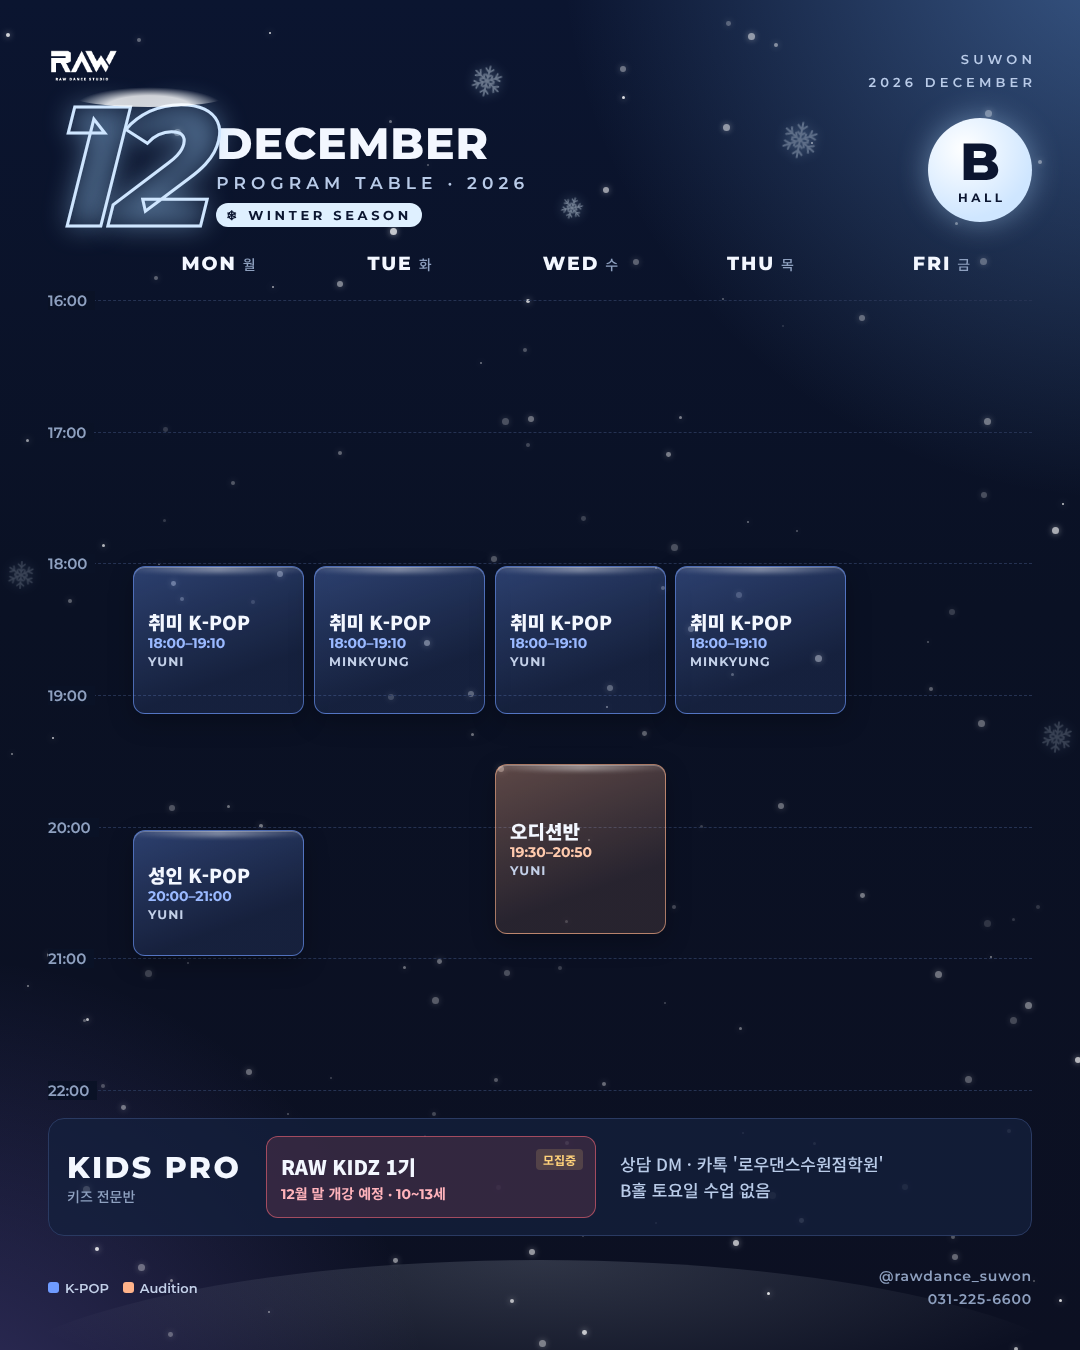
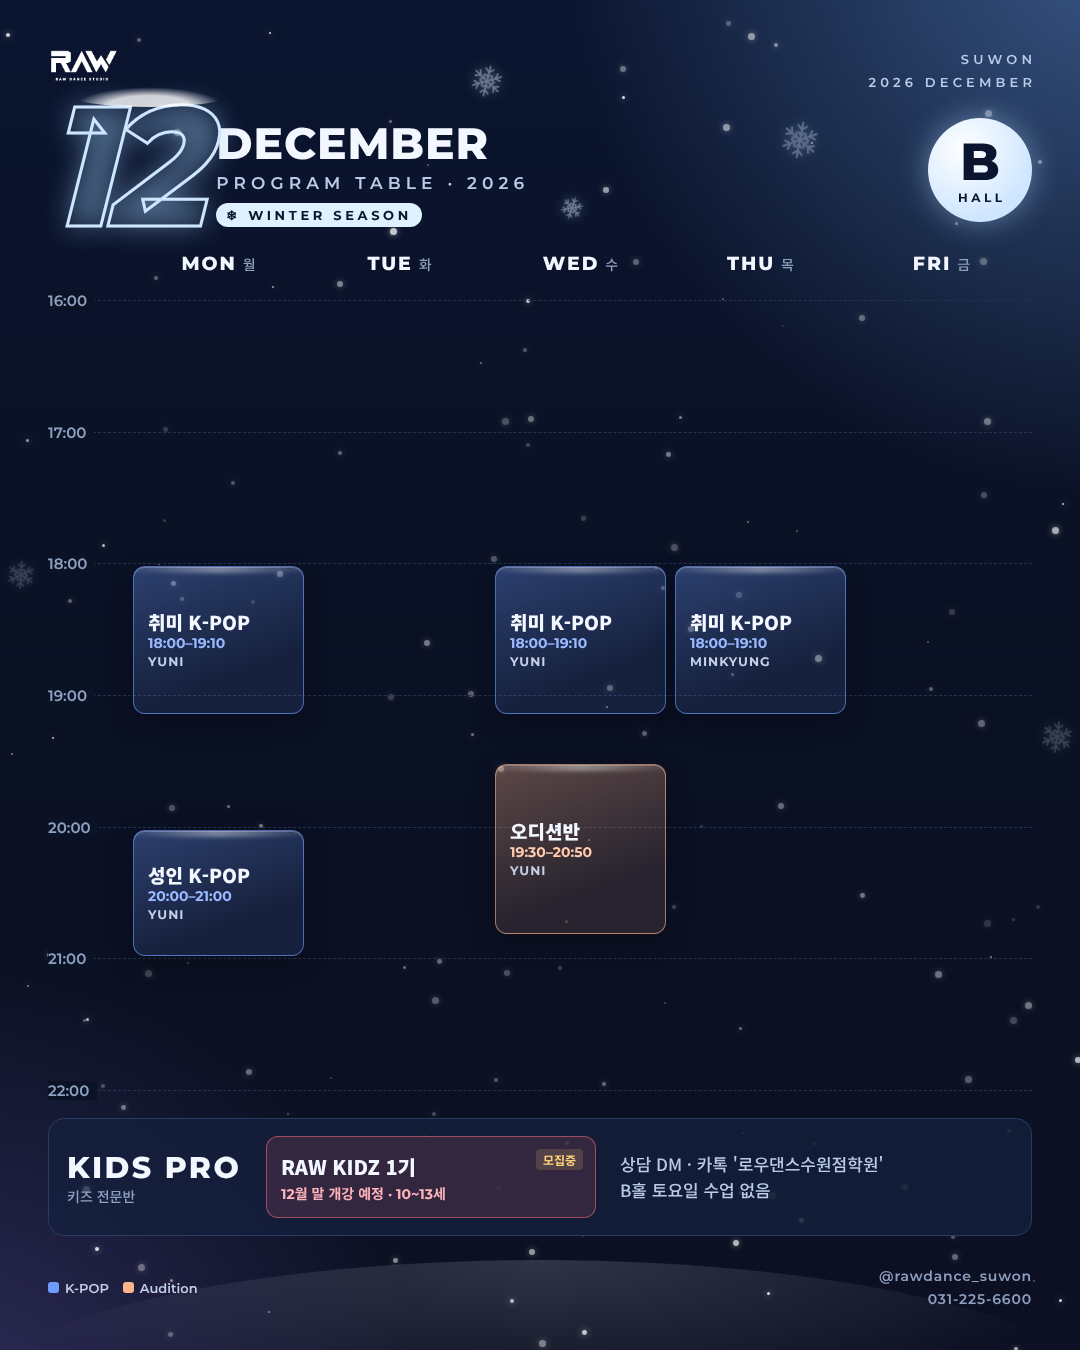
12월 취미 K-POP 월·수/목만 (화 없음)
Claude-Session: https://claude.ai/code/session_01CMPXWNa21Fqq6srPZpa27D

Changed region(s): [[0.275, 0.4044, 0.4583, 0.5289]]

diff --git a/content/2026-12-01_timetable-december/hall-b-2026-12-reels.html b/content/2026-12-01_timetable-december/hall-b-2026-12-reels.html
@@ -49,6 +49,6 @@ body{background:linear-gradient(180deg,#0b1530 0%,#0a1124 45%,#0c1022 100%);colo
 <div class="top"><img src="raw-logo.png"><div class="r">SUWON<br>2026 DECEMBER</div></div>
 <div class="hero"><div class="n"><div class="cap"></div>12</div><div class="t"><b>DECEMBER</b><span>PROGRAM TABLE · 2026</span><em>❄ WINTER SEASON</em></div></div>
 <div class="hall"><b>B</b><span>HALL</span></div>
-<div class="dh" style="left:128px;width:181px">MON<small>월</small></div><div class="dh" style="left:309px;width:181px">TUE<small>화</small></div><div class="dh" style="left:490px;width:181px">WED<small>수</small></div><div class="dh" style="left:670px;width:181px">THU<small>목</small></div><div class="dh" style="left:851px;width:181px">FRI<small>금</small></div><div class="rl" style="top:540px"><span>16:00</span></div><div class="rl" style="top:690px"><span>17:00</span></div><div class="rl" style="top:840px"><span>18:00</span></div><div class="rl" style="top:990px"><span>19:00</span></div><div class="rl" style="top:1140px"><span>20:00</span></div><div class="rl" style="top:1290px"><span>21:00</span></div><div class="rl" style="top:1440px"><span>22:00</span></div><div class="b" style="left:133px;top:843px;width:171px;height:169px;--c:#6f9bff"><b>취미 K-POP</b><span>18:00–19:10</span><small>YUNI</small></div><div class="b" style="left:314px;top:843px;width:171px;height:169px;--c:#6f9bff"><b>취미 K-POP</b><span>18:00–19:10</span><small>MINKYUNG</small></div><div class="b" style="left:495px;top:843px;width:171px;height:169px;--c:#6f9bff"><b>취미 K-POP</b><span>18:00–19:10</span><small>YUNI</small></div><div class="b" style="left:675px;top:843px;width:171px;height:169px;--c:#6f9bff"><b>취미 K-POP</b><span>18:00–19:10</span><small>MINKYUNG</small></div><div class="b" style="left:495px;top:1068px;width:171px;height:194px;--c:#ffb38a"><b>오디션반</b><span>19:30–20:50</span><small>YUNI</small></div><div class="b" style="left:133px;top:1143px;width:171px;height:144px;--c:#6f9bff"><b>성인 K-POP</b><span>20:00–21:00</span><small>YUNI</small></div><div class="sat"><div class="sl" style="width:185px;white-space:nowrap">KIDS PRO<small>키즈 전문반</small></div><div class="sc kp"><b>RAW KIDZ 1기</b><span>12월 말 개강 예정 · 10~13세</span><em>모집중</em></div><p class="cn">상담 DM · 카톡 '로우댄스수원점학원'<br>B홀 토요일 수업 없음</p></div>
+<div class="dh" style="left:128px;width:181px">MON<small>월</small></div><div class="dh" style="left:309px;width:181px">TUE<small>화</small></div><div class="dh" style="left:490px;width:181px">WED<small>수</small></div><div class="dh" style="left:670px;width:181px">THU<small>목</small></div><div class="dh" style="left:851px;width:181px">FRI<small>금</small></div><div class="rl" style="top:540px"><span>16:00</span></div><div class="rl" style="top:690px"><span>17:00</span></div><div class="rl" style="top:840px"><span>18:00</span></div><div class="rl" style="top:990px"><span>19:00</span></div><div class="rl" style="top:1140px"><span>20:00</span></div><div class="rl" style="top:1290px"><span>21:00</span></div><div class="rl" style="top:1440px"><span>22:00</span></div><div class="b" style="left:133px;top:843px;width:171px;height:169px;--c:#6f9bff"><b>취미 K-POP</b><span>18:00–19:10</span><small>YUNI</small></div><div class="b" style="left:495px;top:843px;width:171px;height:169px;--c:#6f9bff"><b>취미 K-POP</b><span>18:00–19:10</span><small>YUNI</small></div><div class="b" style="left:675px;top:843px;width:171px;height:169px;--c:#6f9bff"><b>취미 K-POP</b><span>18:00–19:10</span><small>MINKYUNG</small></div><div class="b" style="left:495px;top:1068px;width:171px;height:194px;--c:#ffb38a"><b>오디션반</b><span>19:30–20:50</span><small>YUNI</small></div><div class="b" style="left:133px;top:1143px;width:171px;height:144px;--c:#6f9bff"><b>성인 K-POP</b><span>20:00–21:00</span><small>YUNI</small></div><div class="sat"><div class="sl" style="width:185px;white-space:nowrap">KIDS PRO<small>키즈 전문반</small></div><div class="sc kp"><b>RAW KIDZ 1기</b><span>12월 말 개강 예정 · 10~13세</span><em>모집중</em></div><p class="cn">상담 DM · 카톡 '로우댄스수원점학원'<br>B홀 토요일 수업 없음</p></div>
 <div class="ft"><div class="lg"><span><i style="background:#6f9bff"></i>K-POP</span><span><i style="background:#ffb38a"></i>Audition</span></div><div class="ct">@rawdance_suwon<br>031-225-6600</div></div>
 </body></html>

diff --git a/content/2026-12-01_timetable-december/hall-b-2026-12.html b/content/2026-12-01_timetable-december/hall-b-2026-12.html
@@ -49,6 +49,6 @@ body{background:linear-gradient(180deg,#0b1530 0%,#0a1124 45%,#0c1022 100%);colo
 <div class="top"><img src="raw-logo.png"><div class="r">SUWON<br>2026 DECEMBER</div></div>
 <div class="hero"><div class="n"><div class="cap"></div>12</div><div class="t"><b>DECEMBER</b><span>PROGRAM TABLE · 2026</span><em>❄ WINTER SEASON</em></div></div>
 <div class="hall"><b>B</b><span>HALL</span></div>
-<div class="dh" style="left:128px;width:181px">MON<small>월</small></div><div class="dh" style="left:309px;width:181px">TUE<small>화</small></div><div class="dh" style="left:490px;width:181px">WED<small>수</small></div><div class="dh" style="left:670px;width:181px">THU<small>목</small></div><div class="dh" style="left:851px;width:181px">FRI<small>금</small></div><div class="rl" style="top:300px"><span>16:00</span></div><div class="rl" style="top:432px"><span>17:00</span></div><div class="rl" style="top:563px"><span>18:00</span></div><div class="rl" style="top:695px"><span>19:00</span></div><div class="rl" style="top:827px"><span>20:00</span></div><div class="rl" style="top:958px"><span>21:00</span></div><div class="rl" style="top:1090px"><span>22:00</span></div><div class="b" style="left:133px;top:566px;width:171px;height:148px;--c:#6f9bff"><b>취미 K-POP</b><span>18:00–19:10</span><small>YUNI</small></div><div class="b" style="left:314px;top:566px;width:171px;height:148px;--c:#6f9bff"><b>취미 K-POP</b><span>18:00–19:10</span><small>MINKYUNG</small></div><div class="b" style="left:495px;top:566px;width:171px;height:148px;--c:#6f9bff"><b>취미 K-POP</b><span>18:00–19:10</span><small>YUNI</small></div><div class="b" style="left:675px;top:566px;width:171px;height:148px;--c:#6f9bff"><b>취미 K-POP</b><span>18:00–19:10</span><small>MINKYUNG</small></div><div class="b" style="left:495px;top:764px;width:171px;height:170px;--c:#ffb38a"><b>오디션반</b><span>19:30–20:50</span><small>YUNI</small></div><div class="b" style="left:133px;top:830px;width:171px;height:126px;--c:#6f9bff"><b>성인 K-POP</b><span>20:00–21:00</span><small>YUNI</small></div><div class="sat"><div class="sl" style="width:185px;white-space:nowrap">KIDS PRO<small>키즈 전문반</small></div><div class="sc kp"><b>RAW KIDZ 1기</b><span>12월 말 개강 예정 · 10~13세</span><em>모집중</em></div><p class="cn">상담 DM · 카톡 '로우댄스수원점학원'<br>B홀 토요일 수업 없음</p></div>
+<div class="dh" style="left:128px;width:181px">MON<small>월</small></div><div class="dh" style="left:309px;width:181px">TUE<small>화</small></div><div class="dh" style="left:490px;width:181px">WED<small>수</small></div><div class="dh" style="left:670px;width:181px">THU<small>목</small></div><div class="dh" style="left:851px;width:181px">FRI<small>금</small></div><div class="rl" style="top:300px"><span>16:00</span></div><div class="rl" style="top:432px"><span>17:00</span></div><div class="rl" style="top:563px"><span>18:00</span></div><div class="rl" style="top:695px"><span>19:00</span></div><div class="rl" style="top:827px"><span>20:00</span></div><div class="rl" style="top:958px"><span>21:00</span></div><div class="rl" style="top:1090px"><span>22:00</span></div><div class="b" style="left:133px;top:566px;width:171px;height:148px;--c:#6f9bff"><b>취미 K-POP</b><span>18:00–19:10</span><small>YUNI</small></div><div class="b" style="left:495px;top:566px;width:171px;height:148px;--c:#6f9bff"><b>취미 K-POP</b><span>18:00–19:10</span><small>YUNI</small></div><div class="b" style="left:675px;top:566px;width:171px;height:148px;--c:#6f9bff"><b>취미 K-POP</b><span>18:00–19:10</span><small>MINKYUNG</small></div><div class="b" style="left:495px;top:764px;width:171px;height:170px;--c:#ffb38a"><b>오디션반</b><span>19:30–20:50</span><small>YUNI</small></div><div class="b" style="left:133px;top:830px;width:171px;height:126px;--c:#6f9bff"><b>성인 K-POP</b><span>20:00–21:00</span><small>YUNI</small></div><div class="sat"><div class="sl" style="width:185px;white-space:nowrap">KIDS PRO<small>키즈 전문반</small></div><div class="sc kp"><b>RAW KIDZ 1기</b><span>12월 말 개강 예정 · 10~13세</span><em>모집중</em></div><p class="cn">상담 DM · 카톡 '로우댄스수원점학원'<br>B홀 토요일 수업 없음</p></div>
 <div class="ft"><div class="lg"><span><i style="background:#6f9bff"></i>K-POP</span><span><i style="background:#ffb38a"></i>Audition</span></div><div class="ct">@rawdance_suwon<br>031-225-6600</div></div>
 </body></html>

diff --git a/content/2026-12-01_timetable-december/make_dec.py b/content/2026-12-01_timetable-december/make_dec.py
@@ -29,7 +29,8 @@ A += [("TUE", 18.5, 19 + 40 / 60, "BASIC", "18:30–19:40", "GAON", "basic"), ("
 SAT_A = [("유아 K-POP", "13:00–14:00"), ("키즈 K-POP", "14:00–15:00"), ("취미 K-POP", "15:00–16:10")]
 # 원장님 2026-11-26: 화 취미 K-POP → 키즈 전문반 시간(B홀), 목 취미 K-POP 유지, 목 18:00~19:00 키즈 전문반은 C홀 → C홀은 따로 표 없이 B홀 표 아래 띠로
 # 원장님 2026-11-28: 키즈 전문반은 12월 말 시작 → 그때부터 화 취미 K-POP이 키즈 전문반으로 바뀌고 취미 K-POP(민경쌤 반)은 주 1회(목). 그 전까지는 화 취미 K-POP 그대로
-B = [(d, 18, 19 + 10 / 60, "취미 K-POP", "18:00–19:10", t, "kpop") for d, t in [("MON", "YUNI"), ("TUE", "MINKYUNG"), ("WED", "YUNI"), ("THU", "MINKYUNG")]]
+# 원장님 2026-11-28 다시: "취미 K-POP은 월·수 / 목요일만" → 12월부터 화 취미 K-POP 없음 (키즈 전문반은 12월 말 시작)
+B = [(d, 18, 19 + 10 / 60, "취미 K-POP", "18:00–19:10", t, "kpop") for d, t in [("MON", "YUNI"), ("WED", "YUNI"), ("THU", "MINKYUNG")]]
 KPRO_T = "MINKYUNG"   # 키즈 전문반 쌤 (원장님 2026-11-28)
 KIDZ_START = False   # 키즈 전문반 시작하면 True → 화 B홀 키즈 전문반 + C홀 띠(목)
 if KIDZ_START:

diff --git a/brand/brand-guide.md b/brand/brand-guide.md
@@ -108,7 +108,7 @@
   - **팝업·대강 (2026-11-07 원장님):** 11/12(목) 19:40 HIP HOP NOFF 대신 **HWAYA 팝업** / 11/16(월) 20:50 CHOREO RAEKU 대신 **BEI 팝업**. 나머지는 정상 (바뀌면 원장님이 알려 줌). 스토리 영상은 `tools/daily-story/extra.json`에 반영.
 - **지난주 선생님 영상(15초)은 스토리용이라 캡션을 만들지 않는다** (원장님 2026-11-11). 예전 규칙: 캡션에는 곡 이름(🎵 Track 줄)을 넣지 않는다 (원장님 2026-11-07: "곡 필요없잖아").
   - **성인 K-POP반 신설:** 월·수 19:30~20:30, T. YUNI, 대상 성인, 주 2회. 홀 [확인필요], 교습비 [확인필요], 첫 수업일 [확인필요], 무료 체험 여부 [확인필요]. 교습비 확정 전에는 금액을 지어내지 않는다.
-- **2026년 12월 (2026-11-23 원장님, "동일할 거 같은데"):** 11월 시간표와 같음. 단 **성인 K-POP반 없어짐**(월·수 19:30), **수요일 19:30~20:50 오디션반(YUNI, B홀) 다시 시작.** **월 19:40 힐코레오(HEEONE) → 팝핑(POPPING)** (원장님 2026-11-25. 쌤은 11/23 팝업 SUNGMI로 넣음 — 확인 필요. 2026-11-28 원장님 "12월까지는 힐코레오 대신 팝핑" → 11/30부터 팝핑). ~~확정 전 예상이므로 12월 콘텐츠에서 성인 K-POP을 안내하지 않고~~ → **2026-11-26 원장님: "월요일 8:00~9:00 성인 케이팝 B홀" — 12월 성인 K-POP 월 20:00~21:00 B홀 (주 1회, T. YUNI — 원장님 2026-11-28), "오디션 수요일 복귀"(수 19:30~20:50 B홀 YUNI).** **2026-11-28 원장님: 키즈 전문반 개강하는 시점(12월 말)부터** 화요일 취미 K-POP(B홀 18:00) → 키즈 전문반 시간으로 변경, 취미 K-POP(민경쌤 반)은 주 1회(목)로 바뀜 — 그 전까지 화 취미 K-POP 그대로. (이전 기록) **2026-11-26 원장님: 화요일 취미 K-POP(B홀 18:00) → 키즈 전문반 시간으로 변경, 목요일 취미 K-POP 유지, 목 18:00~19:00 키즈 전문반 C홀** → 12월 취미 K-POP은 월·수·목. 키즈 전문반 주 2회 = 화 18:00~19:00 B홀(시간 확인 필요) + 목 18:00~19:00 C홀, 쌤 MINKYUNG (원장님 2026-11-28 "12월 말부터 할 거라 나중에 반영" → 시작일 정해지면 시간표·스토리에 쌤 이름 반영). 시간표 이미지는 C홀 표를 따로 만들지 않고 B홀 표 아래 띠로 넣음 스토리용 시간표 `tools/daily-story/schedule-2026-12.json`
+- **2026년 12월 (2026-11-23 원장님, "동일할 거 같은데"):** 11월 시간표와 같음. 단 **성인 K-POP반 없어짐**(월·수 19:30), **수요일 19:30~20:50 오디션반(YUNI, B홀) 다시 시작.** **월 19:40 힐코레오(HEEONE) → 팝핑(POPPING)** (원장님 2026-11-25. 쌤은 11/23 팝업 SUNGMI로 넣음 — 확인 필요. 2026-11-28 원장님 "12월까지는 힐코레오 대신 팝핑" → 11/30부터 팝핑). ~~확정 전 예상이므로 12월 콘텐츠에서 성인 K-POP을 안내하지 않고~~ → **2026-11-26 원장님: "월요일 8:00~9:00 성인 케이팝 B홀" — 12월 성인 K-POP 월 20:00~21:00 B홀 (주 1회, T. YUNI — 원장님 2026-11-28), "오디션 수요일 복귀"(수 19:30~20:50 B홀 YUNI).** **2026-11-28 원장님: 키즈 전문반 개강하는 시점(12월 말)부터** 화요일 취미 K-POP(B홀 18:00) → 키즈 전문반 시간으로 변경, 취미 K-POP(민경쌤 반)은 주 1회(목)로 바뀜 — 원장님 다시(11-28): **12월 취미 K-POP은 월·수(YUNI) / 목(MINKYUNG)만, 화요일 없음.** (이전 기록) **2026-11-26 원장님: 화요일 취미 K-POP(B홀 18:00) → 키즈 전문반 시간으로 변경, 목요일 취미 K-POP 유지, 목 18:00~19:00 키즈 전문반 C홀** → 12월 취미 K-POP은 월·수·목. 키즈 전문반 주 2회 = 화 18:00~19:00 B홀(시간 확인 필요) + 목 18:00~19:00 C홀, 쌤 MINKYUNG (원장님 2026-11-28 "12월 말부터 할 거라 나중에 반영" → 시작일 정해지면 시간표·스토리에 쌤 이름 반영). 시간표 이미지는 C홀 표를 따로 만들지 않고 B홀 표 아래 띠로 넣음 스토리용 시간표 `tools/daily-story/schedule-2026-12.json`
 - 시간표가 바뀌면 이 표들과 이미지를 함께 교체한다.
 
 - 체험수업: **K-POP반만 무료 체험 가능** (전문반·장르 클래스는 체험 없음)

diff --git a/content/2026-12-01_timetable-december/instagram.md b/content/2026-12-01_timetable-december/instagram.md
@@ -34,5 +34,5 @@ A홀·B홀 시간표는 옆으로 넘겨서 확인해 주세요
 - 범례에 Kids Pro(빨강) 추가, 스토리 시간표 색 kpro 추가
 
 ## 2026-11-28 수정 (원장님 "12월부터 키즈 전문반 개강하면 그 시점부터 취미 K-POP은 주 1회", 키즈 전문반 12월 말 시작·쌤 MINKYUNG, 성인 K-POP 쌤 YUNI)
-- 키즈 전문반 시작 전이라 화 B홀 취미 K-POP 다시 넣음, 아래 띠는 "KIDS PRO · RAW KIDZ 1기 · 12월 말 개강 예정 · 모집중"
+- (정정) 원장님 "취미 K-POP은 월·수 / 목요일만" → 화 취미 K-POP 없음. 키즈 전문반 시작 전이라 화 18:00 B홀은 비어 있음, 아래 띠는 "KIDS PRO · RAW KIDZ 1기 · 12월 말 개강 예정 · 모집중"
 - 시작하면 make_dec.py `KIDZ_START = True` → 화 B홀 키즈 전문반 + C홀 띠(목), 화 취미 K-POP 빠짐
